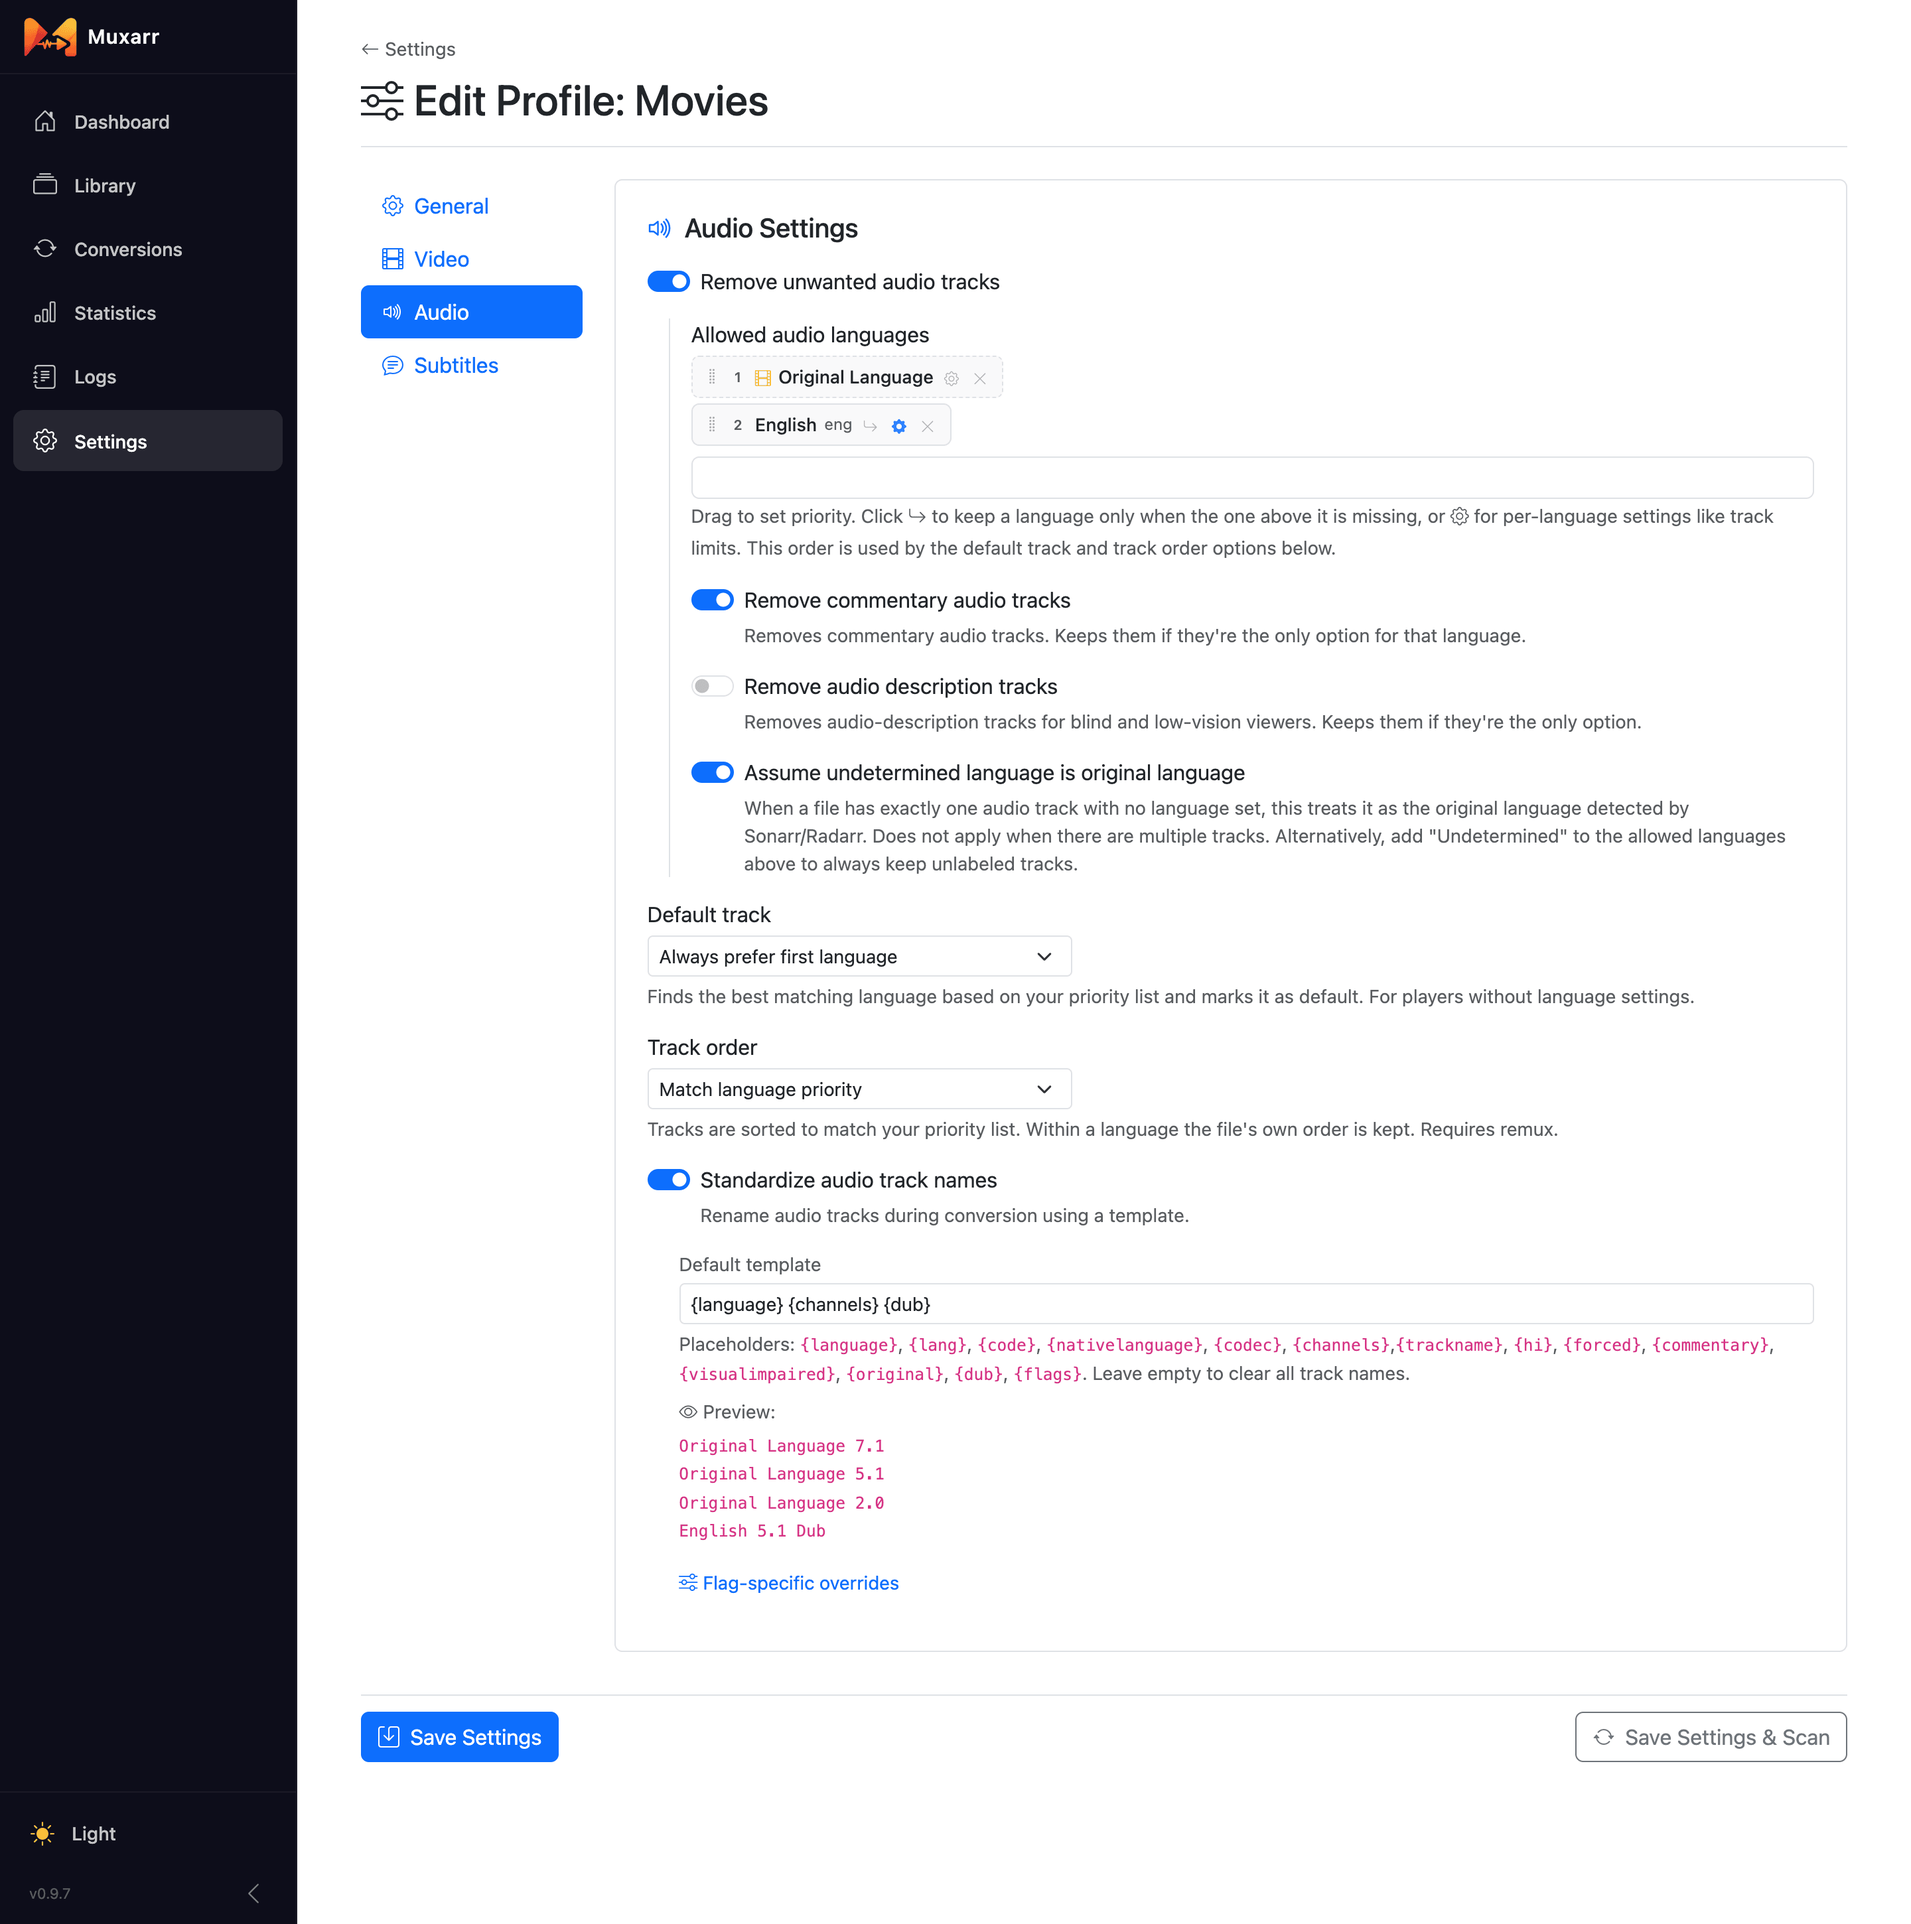
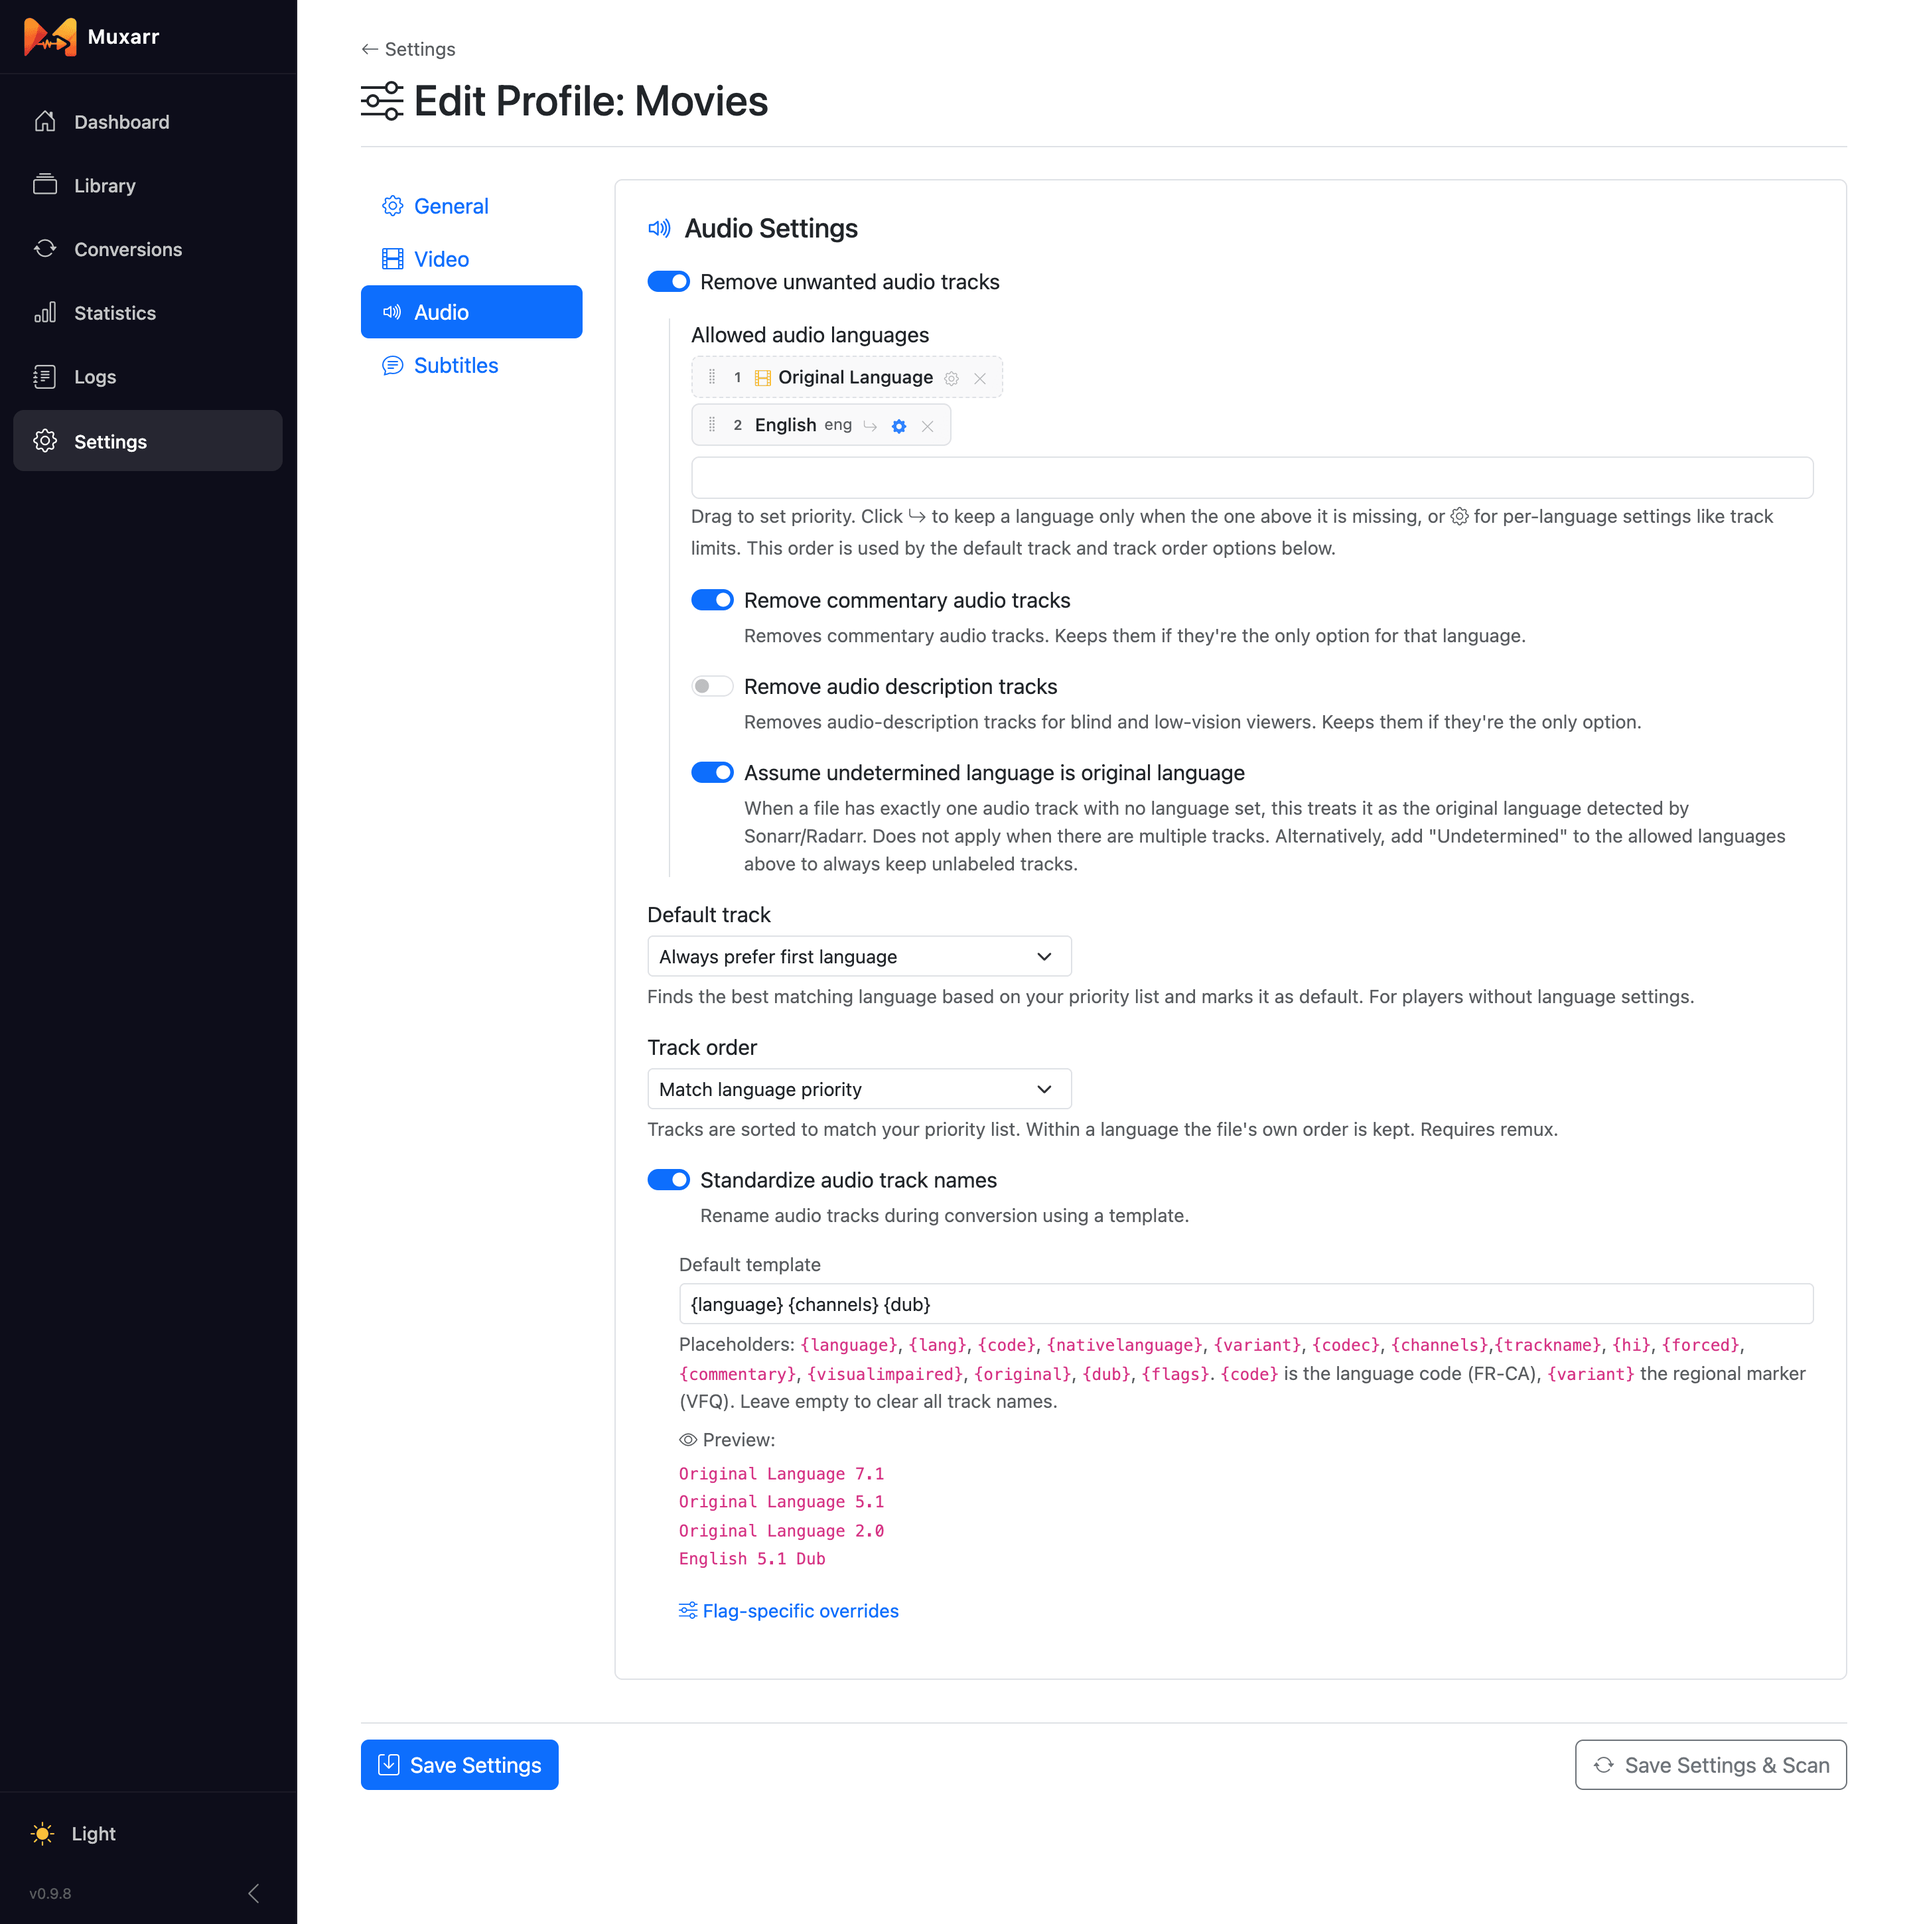
Document the {variant} placeholder

diff --git a/docs/profiles.html b/docs/profiles.html
@@ -282,6 +282,12 @@
         <li>Two variants never cover each other, so <span class="mux-ui">French (Canada)</span> plus a
           <span class="mux-ui">French (France)</span> fallback is a clean way to say "Quebec if there is one, otherwise France".</li>
       </ul>
+      <p>
+        In track names, <code>{code}</code> gives the region code (<code>FR-CA</code>) and
+        <code>{variant}</code> the marker people actually write (<code>VFQ</code>), so
+        <code>{code} {variant} {codec} {channels}</code> comes out as "FR-CA VFQ AAC 2.0" and, for a
+        plain English track, "EN AAC 2.0".
+      </p>
 
       <h2 id="extras">Commentary, SDH and codecs</h2>
       <dl class="row">
@@ -329,6 +335,7 @@
           <tbody>
             <tr><td><code>{language}</code></td><td>Full language name, "English"</td></tr>
             <tr><td><code>{nativelanguage}</code></td><td>Native name, "Français"</td></tr>
+            <tr><td><code>{variant}</code></td><td>The marker a regional variant goes by in release names: "VFQ", "VFF", "Latino", "CHT". Nothing for a plain language (from v0.9.8)</td></tr>
             <tr><td><code>{code}</code></td><td>Short code in capitals, "EN"</td></tr>
             <tr><td><code>{lang}</code></td><td>The raw language code from the track</td></tr>
             <tr><td><code>{codec}</code></td><td>Codec name, "E-AC-3"</td></tr>
